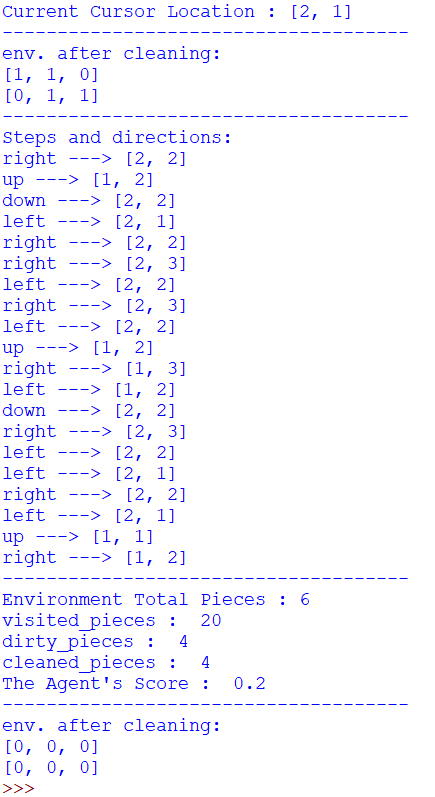
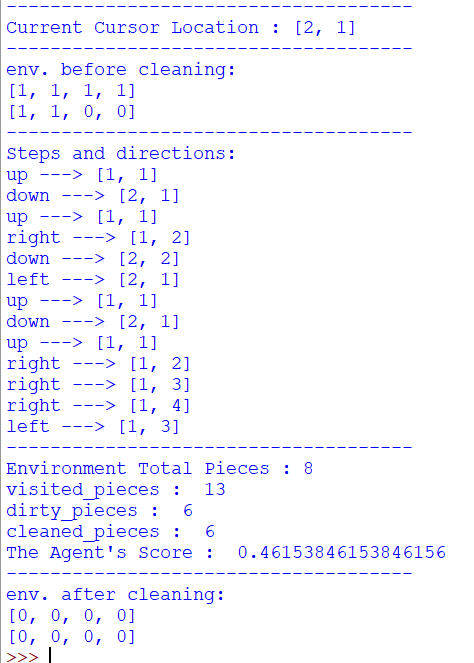
Add files via upload

diff --git a/vac.py b/vac.py
@@ -88,7 +88,7 @@ cleaned_pieces = 0
 
 
 rows = 2                  #Row number
-cols = 3                  #Column number
+cols = 4                  #Column number
 vac_pos = [2,1]           #Current Cursor
 initmap(rows,cols)
 
@@ -97,7 +97,7 @@ tmp_maps = maps[:]
 print('-------------------------------------')
 print('Current Cursor Location :' , vac_pos)
 print('-------------------------------------')
-print('env. after cleaning:')
+print('env. before cleaning:')
 #showing the whole env.
 for i in range (rows):
     print (maps[i])
